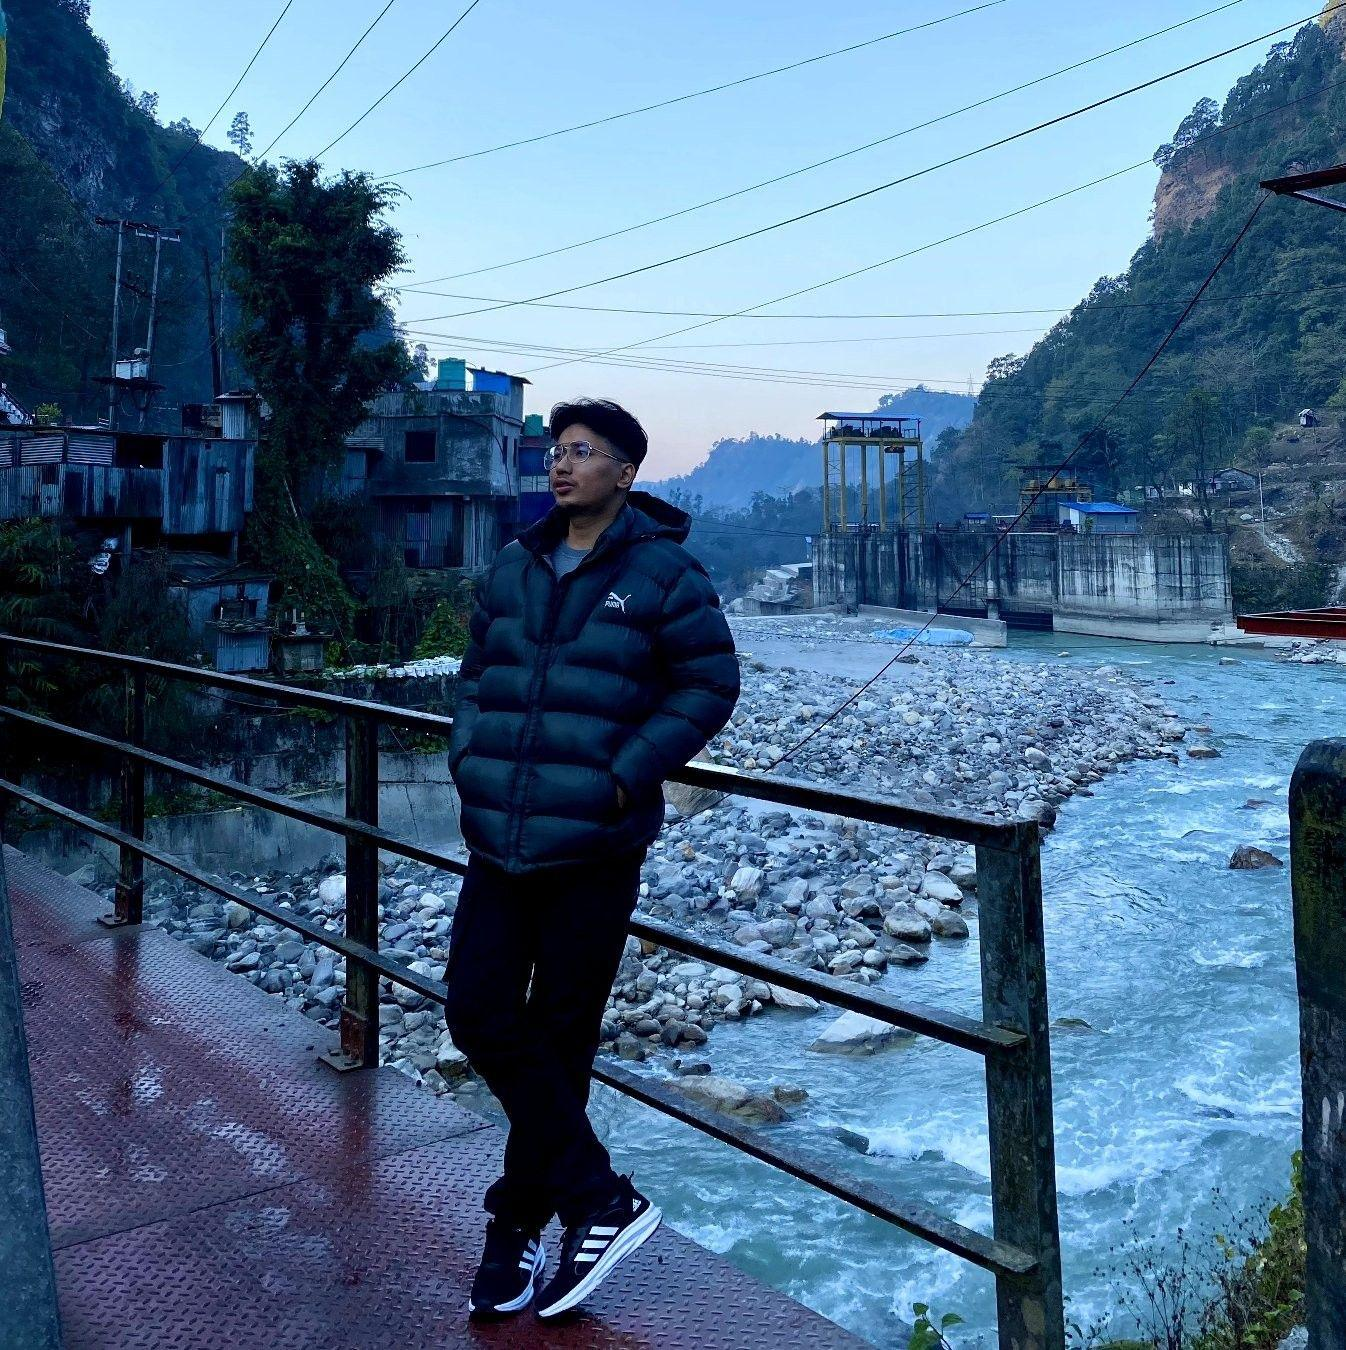
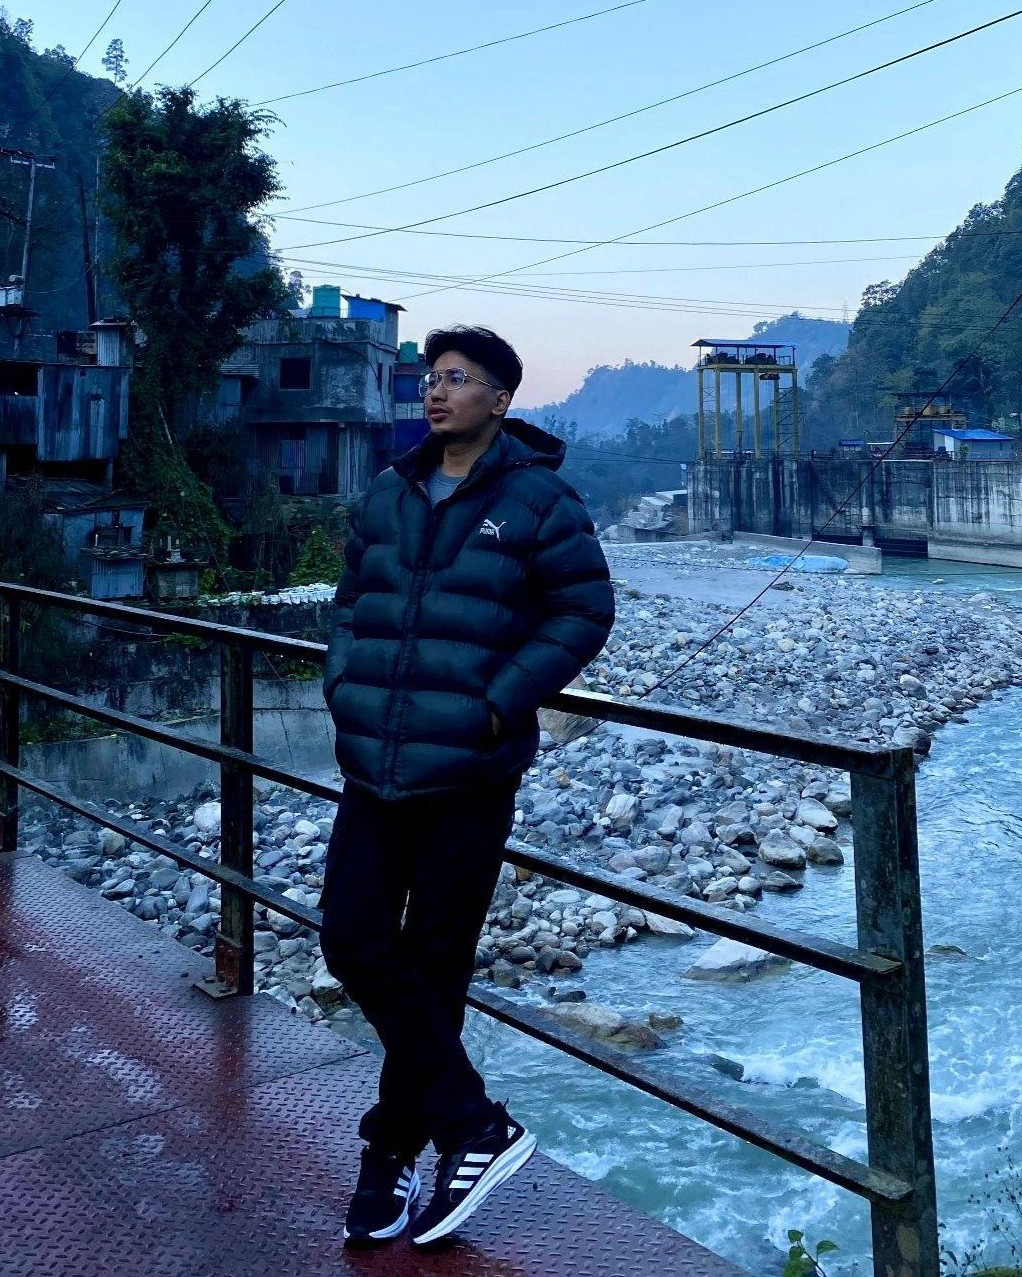
img bug fix

diff --git a/index.html b/index.html
@@ -94,7 +94,7 @@
 
             <div class="about__container bd-grid">
                 <div class="about__img">
-                    <img src="wwwroot/img/Boating.jpg" alt="">
+                    <img src="wwwroot/img/Trekking.jpg" alt="">
                 </div>
 
                 <div>
